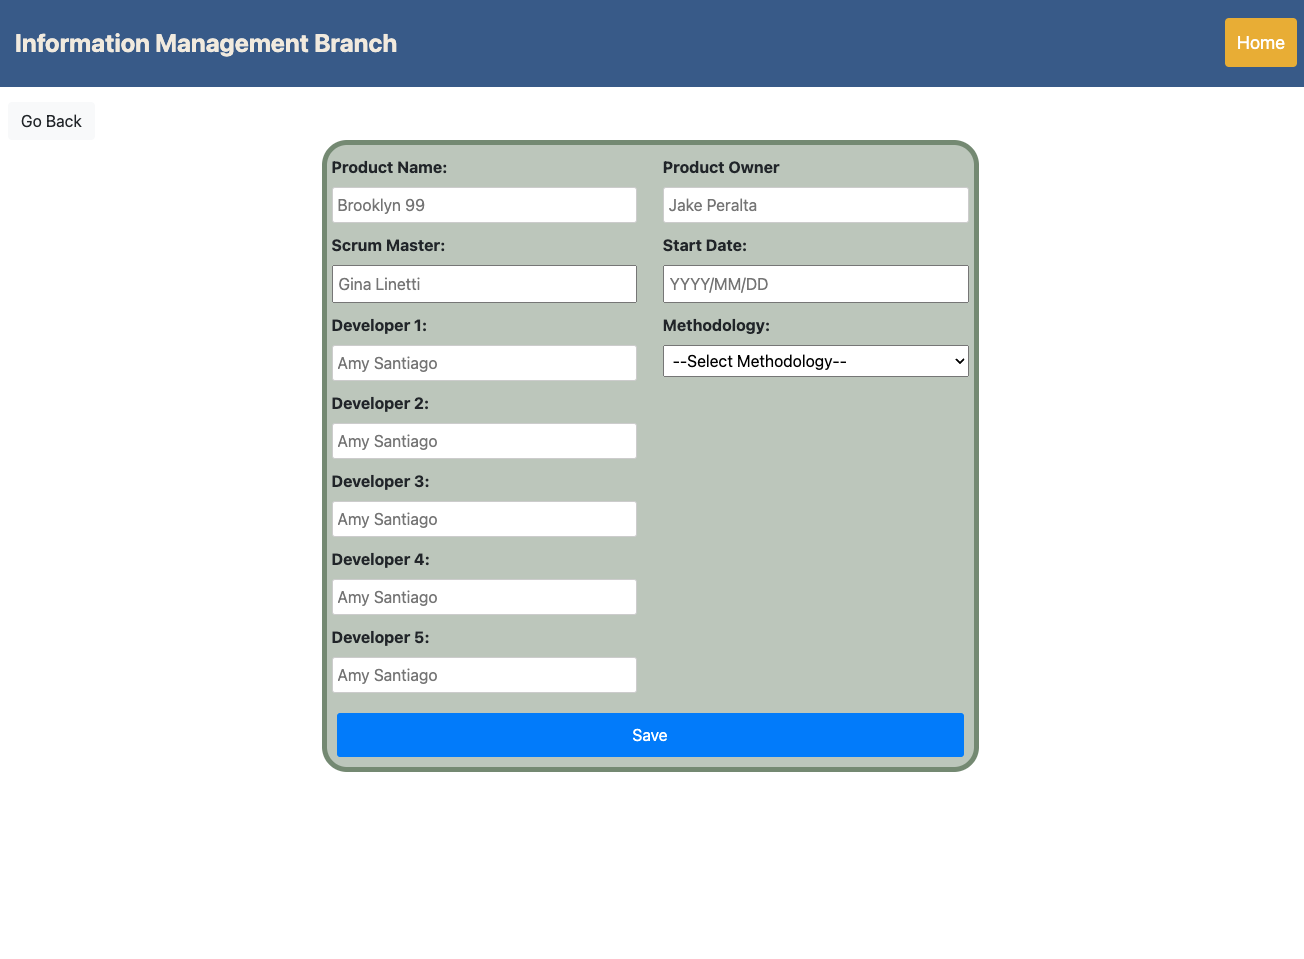
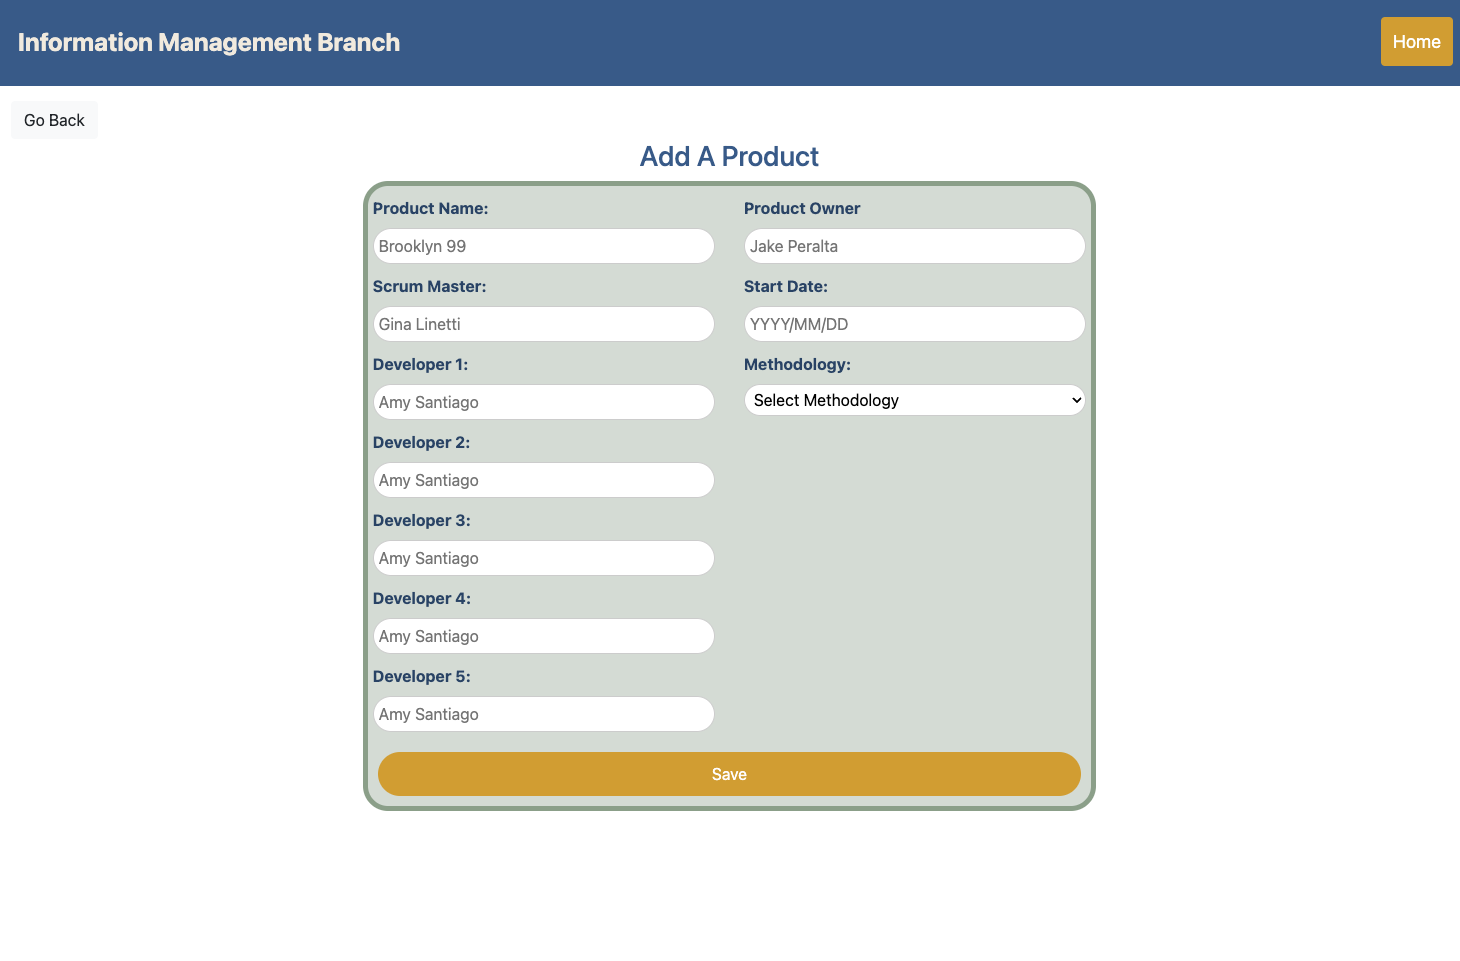
better error handling, ui updates and clean up

diff --git a/server.js b/server.js
@@ -13,7 +13,7 @@ const app = express();
 const PORT = 3000;
 
 
-//  Use
+//  Middleware
 app.use(bodyParser.urlencoded({ extended: true }));
 app.use(express.static(path.join(__dirname, 'public'))); // to let express know all static folders are in public
 // Enable CORS for all routes
@@ -30,8 +30,7 @@ const jsonString = fs.readFileSync('generated-data.json', 'utf8');
 const productsDatabase = JSON.parse(jsonString);
 const productCount = Object.keys(productsDatabase).length;
 
-// Set 
-// What engine to use (View) and extention files to look at
+// Set View Engine and Views Path
 app.set('view engine', 'ejs');
 app.set('views', path.join(__dirname, 'views'));
 
@@ -63,73 +62,101 @@ for (let i = 1; i <= 40; i++) {
 // GET
 // Home Endpoint
 app.get('/api', (req, res) => {
-  res.redirect('/api/products');
+  try {
+    res.redirect('/api/products');
+  } catch (err) {
+    console.error(err);
+    res.status(500).json({ error: 'Internal Server Error' });
+  }
 });
 
 // Products Endpoint
 app.get('/api/products', (req, res) => {
-
-  // Using template for variables to render on the index page
-  const templateVars = {
-    productList: productsDatabase,
-    productCount: productCount
-  };
-  res.status(200).render('pages/index', templateVars);
+  try {
+    // Using template for variables to render on the index page
+    const templateVars = {
+      productList: productsDatabase,
+      productCount: productCount
+    };
+    res.status(200).render('pages/index', templateVars);
+  } catch (err) {
+    console.error(err);
+    res.status(500).json({ error: 'Internal Server Error' });
+  }
 });
 
 // Add Products Endpoint
 app.get('/api/products/add', (req, res) => {
-  const templateVars = {
-    productList: productsDatabase,
-    productCount: productCount
-  };
-  res.status(200).render('pages/product_add', templateVars);
+  try {
+    const templateVars = {
+      productList: productsDatabase,
+      productCount: productCount
+    };
+    res.status(200).render('pages/product_add', templateVars);
+  } catch (err) {
+    console.error(err);
+    res.status(500).json({ error: 'Internal Server Error' });
+  }
 });
 
 // View Details Product Endpoint
 app.get('/api/products/:id/details', (req, res) => {
-
-  // Turning id from the request from string to integer 
-  const productId = parseInt(req.params.id);
-  const product = productsDatabase[productId];
-  if (!product) {
-    res.status(404).send('Product not found');
-  } else {
-    const templateVars = {
-      productId: productId,
-      productName: product.productName,
-      productOwnerName: product.productOwnerName,
-      Developers: product.Developers,
-      scrumMasterName: product.scrumMasterName,
-      startDate: product.startDate,
-      methodology: product.methodology
-    };
-    res.status(200).render('pages/product_details', templateVars);
+  try {
+    // Turning id from the request from string to integer 
+    const productId = parseInt(req.params.id);
+    const product = productsDatabase[productId];
+    if (!product) {
+      res.status(404).send('Product not found');
+    } else {
+      const templateVars = {
+        productId: productId,
+        productName: product.productName,
+        productOwnerName: product.productOwnerName,
+        Developers: product.Developers,
+        scrumMasterName: product.scrumMasterName,
+        startDate: product.startDate,
+        methodology: product.methodology
+      };
+      res.status(200).render('pages/product_details', templateVars);
+    }
+  } catch (err) {
+    console.error(err);
+    res.status(500).json({ error: 'Internal Server Error' });
   }
 });
 
 // Products Count Endpoint
 app.get('/api/products/count', (req, res) => {
-  res.status(200).json({ count: productCount });
+  try {
+    res.status(200).json({ count: productCount });
+  } catch (err) {
+    console.error(err);
+    res.status(500).json({ error: 'Internal Server Error' });
+  }
 });
 
 // Edit Product Endpoint
 app.get('/api/products/:id/edit', (req, res) => {
-  const productId = parseInt(req.params.id);
-  const product = productsDatabase[productId];
-  if (!product) {
-    res.status(404).send('Product not found');
-  } else {
-    const templateVars = {
-      productId: productId,
-      productName: product.productName,
-      productOwnerName: product.productOwnerName,
-      Developers: product.Developers,
-      scrumMasterName: product.scrumMasterName,
-      startDate: product.startDate,
-      methodology: product.methodology
-    };
-    res.status(200).render('pages/product_edit', templateVars);
+  try {
+    const productId = parseInt(req.params.id);
+    const product = productsDatabase[productId];
+    if (!product) {
+      res.status(404).send('Product not found');
+    } else {
+      const templateVars = {
+        productId: productId,
+        productName: product.productName,
+        productOwnerName: product.productOwnerName,
+        Developers: product.Developers,
+        scrumMasterName: product.scrumMasterName,
+        startDate: product.startDate,
+        methodology: product.methodology
+      };
+      res.status(200).render('pages/product_edit', templateVars);
+    }
+  } catch (err) {
+    console.error(err);
+    res.status(500).json({ error: 'Internal Server Error' });
   }
 });
 
@@ -142,58 +169,73 @@ app.get("/api/health", (req, res) => {
 // POST
 // Add Products Endpoint
 app.post('/api/products/add', (req, res) => {
-  const { Developers, productName, productOwnerName, scrumMasterName, startDate, methodology } = req.body;
+  try {
+    const { Developers, productName, productOwnerName, scrumMasterName, startDate, methodology } = req.body;
 
-  // Ensure ids are not the same
-  const newProductId = productCount + 1;
+    // Ensure ids are not the same
+    const newProductId = productCount + 1;
 
-  // Add a new product to the existing data
-  const newProductData = {
-    productId: newProductId,
-    productName,
-    productOwnerName,
-    Developers,
-    scrumMasterName,
-    startDate,
-    methodology
-  };
-  productsDatabase[newProductId] = newProductData;
+    // Add a new product to the existing data
+    const newProductData = {
+      productId: newProductId,
+      productName,
+      productOwnerName,
+      Developers,
+      scrumMasterName,
+      startDate,
+      methodology
+    };
+    productsDatabase[newProductId] = newProductData;
 
-  // Write the updated data back to the file
-  fs.writeFileSync('generated-data.json', JSON.stringify(productsDatabase));
+    // Write the updated data back to the file
+    fs.writeFileSync('generated-data.json', JSON.stringify(productsDatabase));
 
-  res.status(201).redirect('/api/products');
+    res.status(201).redirect('/api/products');
+  } catch (err) {
+    console.error(err);
+    res.status(500).json({ error: 'Internal Server Error' });
+  }
 });
 
 // Edit Product Endpoint
 app.post('/api/products/:id/edit', (req, res) => {
-  const productId = parseInt(req.params.id);
-  const { Developers, productName, productOwnerName, scrumMasterName, startDate, methodology } = req.body;
+  try {
+    const productId = parseInt(req.params.id);
+    const { Developers, productName, productOwnerName, scrumMasterName, startDate, methodology } = req.body;
 
-  // Update the existing product data
-  productsDatabase[productId].productName = productName;
-  productsDatabase[productId].productOwnerName = productOwnerName;
-  productsDatabase[productId].Developers = Developers;
-  productsDatabase[productId].scrumMasterName = scrumMasterName;
-  productsDatabase[productId].startDate = startDate;
-  productsDatabase[productId].methodology = methodology;
+    // Update the existing product data
+    productsDatabase[productId].productName = productName;
+    productsDatabase[productId].productOwnerName = productOwnerName;
+    productsDatabase[productId].Developers = Developers;
+    productsDatabase[productId].scrumMasterName = scrumMasterName;
+    productsDatabase[productId].startDate = startDate;
+    productsDatabase[productId].methodology = methodology;
 
-  // Write the updated data back to the file
-  fs.writeFileSync('generated-data.json', JSON.stringify(productsDatabase));
+    // Write the updated data back to the file
+    fs.writeFileSync('generated-data.json', JSON.stringify(productsDatabase));
 
-  res.status(200).redirect('/api/products');
+    res.status(200).redirect('/api/products');
+  } catch (err) {
+    console.error(err);
+    res.status(500).json({ error: 'Internal Server Error' });
+  }
 });
 
 // DELETE
 // Delete Product Endpoint
 app.post("/api/products/:id/delete", (req, res) => {
-  const productId = parseInt(req.params.id);
-  delete productsDatabase[productId];
+  try {
+    const productId = parseInt(req.params.id);
+    delete productsDatabase[productId];
 
-  // Write the updated data back to the file
-  fs.writeFileSync('generated-data.json', JSON.stringify(productsDatabase));
+    // Write the updated data back to the file
+    fs.writeFileSync('generated-data.json', JSON.stringify(productsDatabase));
 
-  res.status(200).redirect('/api/products');
+    res.status(200).redirect('/api/products');
+  } catch (err) {
+    console.error(err);
+    res.status(500).json({ error: 'Internal Server Error' });
+  }
 });
 
 // PORT

diff --git a/public/css/main.css b/public/css/main.css
@@ -5,6 +5,10 @@ body {
   font-family: Arial, Helvetica, sans-serif;
 }
 
+h3 {
+  text-align: center;
+}
+
 .header {
   overflow: hidden;
   background-color: #385a8a;
@@ -34,7 +38,7 @@ body {
 }
 
 .header a.active {
-  background-color: #e8ad17;
+  background-color: #d19d1a;
   color: rgb(255, 255, 255);
 }
 
@@ -114,10 +118,10 @@ td, th {
   width: 50%;
   margin-left: auto;
   margin-right: auto;
-  border: 5px solid rgb(115, 137, 112);
+  border: 5px solid rgb(138, 159, 136);
   padding: 10px;
   border-radius: 25px;
-  background: rgb(188, 198, 186);
+  background: rgb(212, 219, 211);
   height: auto;
   display: flex;
 }
@@ -126,6 +130,7 @@ label {
   display: block;
   margin-bottom: 5px;
   font-weight: bold;
+  color: #294366;
 }
 
 input[type="text"],
@@ -136,21 +141,21 @@ textarea {
   padding: 5px;
   margin-bottom: 10px;
   border: 1px solid #ccc;
-  border-radius: 3px;
+  border-radius: 25px;
   box-sizing: border-box;
 }
 
 input[type="submit"] {
-  background-color: #007bff;
-  color: #fff;
+  background-color: #d19d1a;
+  color: rgb(255, 253, 253);
   border: none;
   padding: 10px 20px;
-  border-radius: 3px;
+  border-radius: 25px;
   cursor: pointer;
 }
 
 input[type="submit"]:hover {
-  background-color: #0069d9;
+  background-color: #e8ad17;
 }
 
 .form-row {
@@ -170,18 +175,20 @@ select {
   width: 100%;
   padding: 5px;
   margin-bottom: 10px;
+  border-radius: 25px;
+  border: 1px solid #ccc;
 }
 
 /* Edit Form */
 .edit-form {
-  /* margin-top: 10%; */
+  margin-top: 10%;
   width: 50%;
   margin-left: auto;
   margin-right: auto;
-  border: 5px solid rgb(115, 137, 112);
+  border: 5px solid rgb(120, 112, 137);
   padding: 10px;
   border-radius: 25px;
-  background: rgb(188, 198, 186);
+  background: rgb(215, 211, 219);
   height: auto;
   display: flex;
 }
